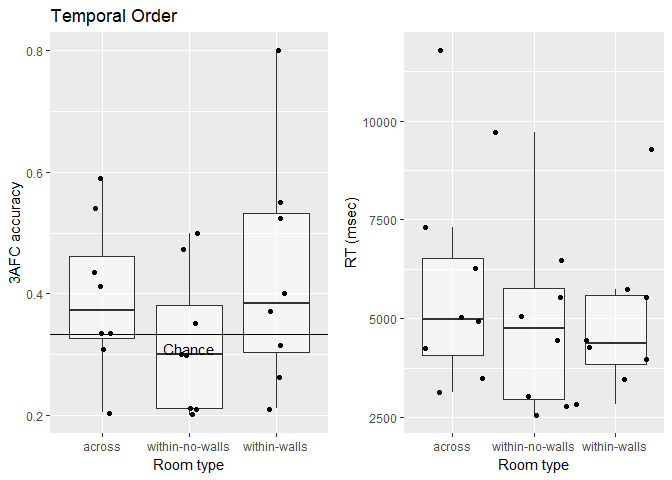
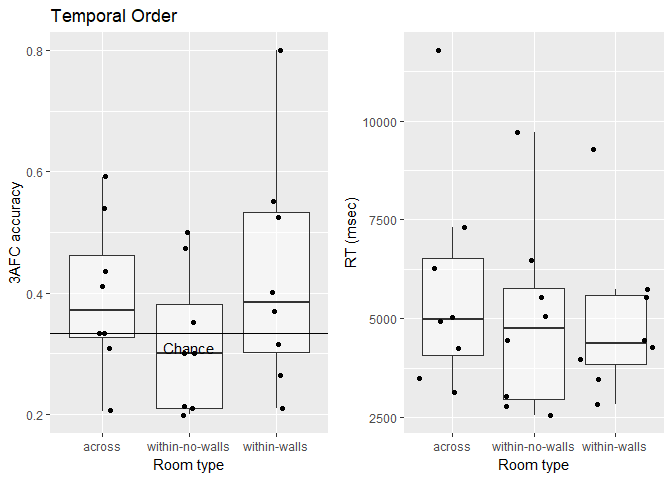
Adding analysis after excluding participant based on performance across condition

diff --git a/analysis/memoryTask.md b/analysis/memoryTask.md
@@ -191,6 +191,9 @@ The graphic above shows the 5th percentile varies as function of the trial numbe
 Exlcuding participants that are below 5th percentile of null distribution
 =========================================================================
 
+With condition specific cut-offs
+--------------------------------
+
 ``` r
 # Create exlusion var and set to 0 as default
 exclude <- rep(0, n)
@@ -205,7 +208,7 @@ for(i in 1:dim(temporalOrder_agg)[1]){
 
 # Create subset
 temporalOrder_agg$exclude <- rep(exclude, each = 3)
-temporalOrder_agg_sub     <- subset(temporalOrder_agg, temporalOrder_agg$exclude == 0)
+temporalOrder_agg_sub     <- temporalOrder_agg[temporalOrder_agg$exclude == 0, ]
 ```
 
 Based on the cut-offs, I excluded 4 participants from the analysis.
@@ -252,3 +255,65 @@ ezANOVA(temporalOrder_agg_sub, dv = acc, wid = id, within = context)
     ## 2 context 0.6852536 0.2091039           0.7961692 0.2039348
 
 Unexpectedly, the effect size increased with increased memory for the across and the within-walls condition.
+
+Cut-off across conditions
+-------------------------
+
+Overall, there are 78 trials in the experiment. Below chance performance for that case would be 0.2435897.
+
+``` r
+temporalOrder_agg2 <- ddply(temporalOrder_comb, c('id'), summarise, 
+                           n = length(accuracy),
+                           acc = mean(accuracy))
+
+# How many participants are excluded becuase they're below or equal to that cut-off
+cutOff78 <- trial_sim[trial_sim$nTrials == 78, 2]
+exclude  <- temporalOrder_agg2$id[which(temporalOrder_agg2$acc <= cutOff78)]
+```
+
+There is 1 participant(s), to which that applies. If we exclude this participant from the analysis.
+
+``` r
+temporalOrder_agg_sub2 <- temporalOrder_agg[temporalOrder_agg$id != exclude, ]
+```
+
+Temporal order memory on subset
+===============================
+
+``` r
+# Aggregate data
+afcPlot <- ggplot(temporalOrder_agg_sub2, aes(x = context, y = acc)) + 
+  geom_boxplot(alpha = 0.5,outlier.shape = NA) + 
+  geom_jitter(width = 0.1) +
+  geom_hline(yintercept = 1/3) +
+  annotate('text', x = 2, y = 0.31, label = 'Chance') +
+  labs(y = '3AFC accuracy', x = "Room type", title = 'Temporal Order')
+
+
+rtPlot <- ggplot(temporalOrder_agg_sub2, aes(x = context, y = rt)) + 
+  geom_boxplot(alpha = 0.5, outlier.shape = NA) + 
+  geom_jitter(width = 0.5) +
+  labs(y = 'RT (msec)', x = "Room type", title = '')
+
+plot_grid(afcPlot, rtPlot)
+```
+
+![](memoryTask_files/figure-markdown_github/unnamed-chunk-14-1.png)
+
+As expected, excluding that participant didn't change the interpretation.
+
+``` r
+ezANOVA(temporalOrder_agg_sub2, dv = acc, wid = id, within = context)
+```
+
+    ## $ANOVA
+    ##    Effect DFn DFd        F        p p<.05        ges
+    ## 2 context   2  20 0.269512 0.766482       0.01724896
+    ## 
+    ## $`Mauchly's Test for Sphericity`
+    ##    Effect         W         p p<.05
+    ## 2 context 0.7219926 0.2308859      
+    ## 
+    ## $`Sphericity Corrections`
+    ##    Effect       GGe     p[GG] p[GG]<.05       HFe     p[HF] p[HF]<.05
+    ## 2 context 0.7824681 0.7138664           0.9018485 0.7445744
